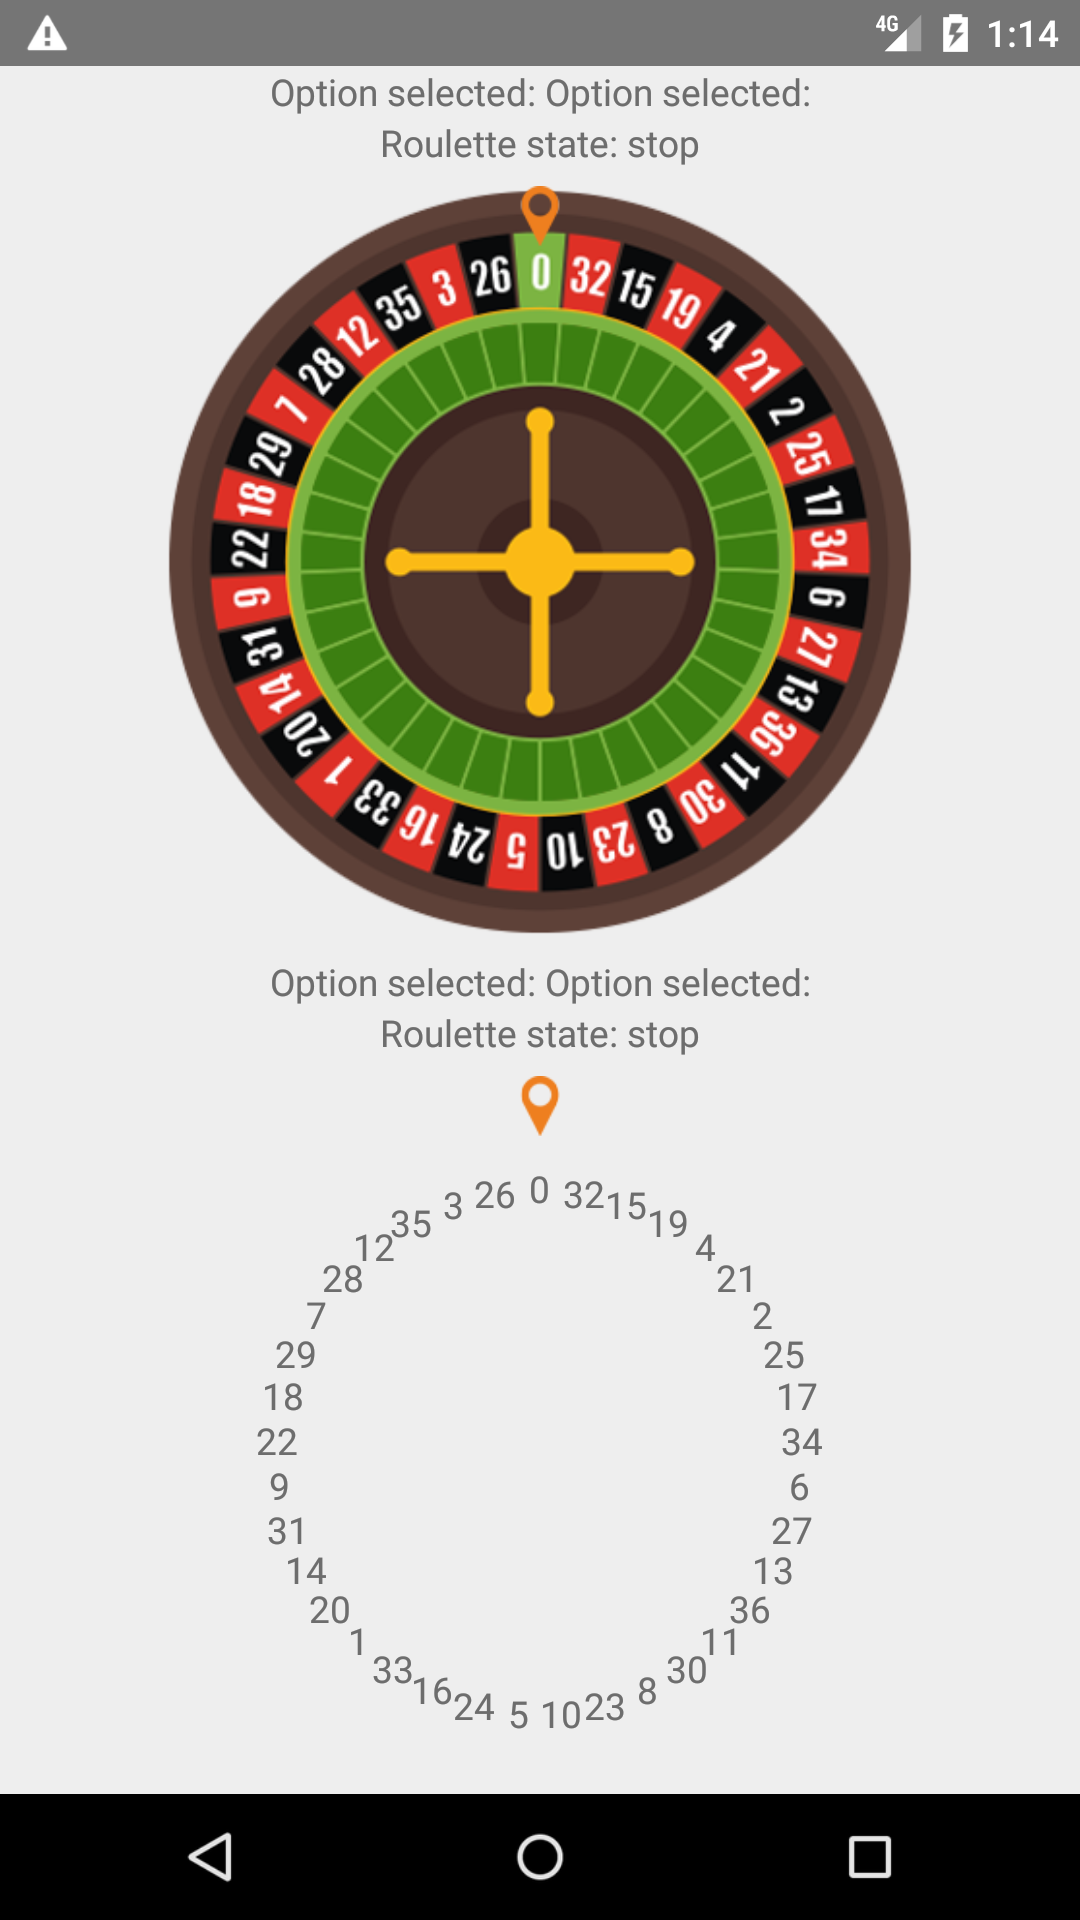
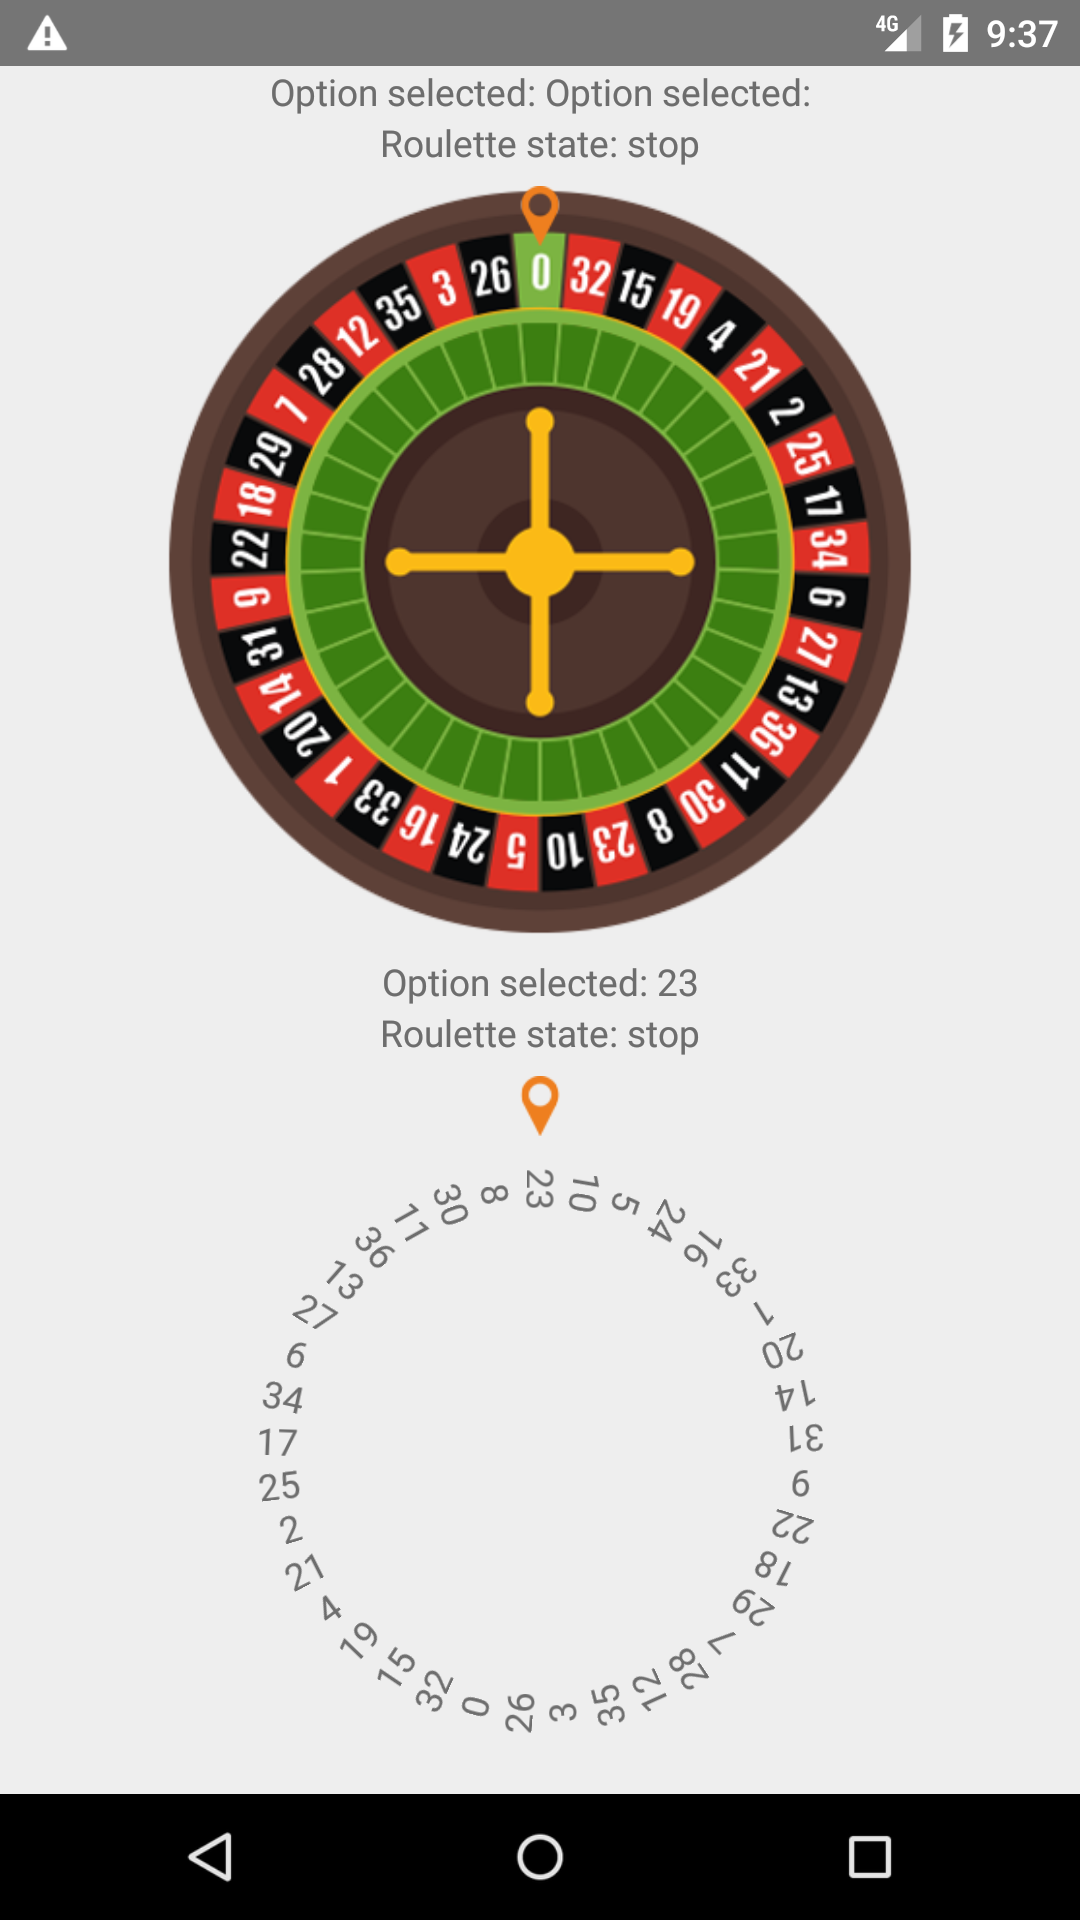
Add rotateEachElement example

diff --git a/App.js b/App.js
@@ -66,6 +66,7 @@ export default class App extends Component {
                   onRotateChange={this.onRotateCustomChange}
                   marker={marker}
                   options={customOptions}
+                  rotateEachElement={(index)=> ((index * 360 /options.length * -1 ) -90)}
                   markerWidth={20} >          
         </Roulette>
       </View>
